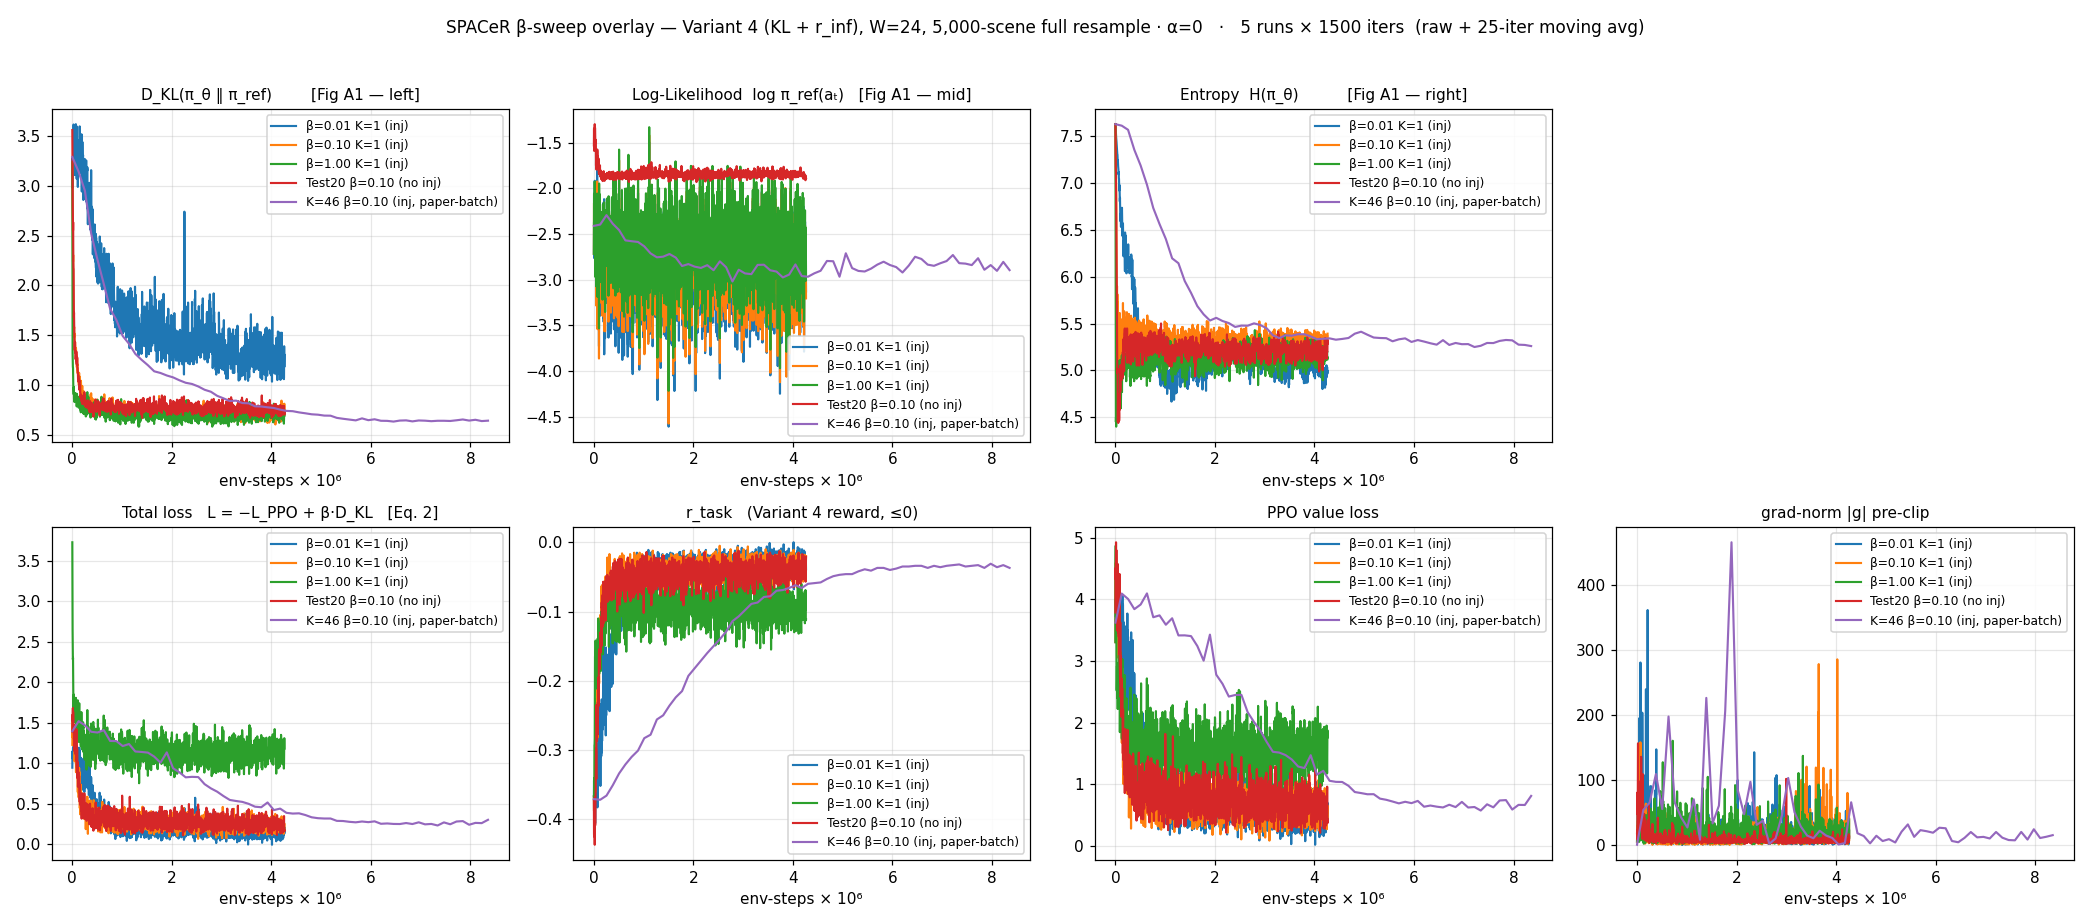
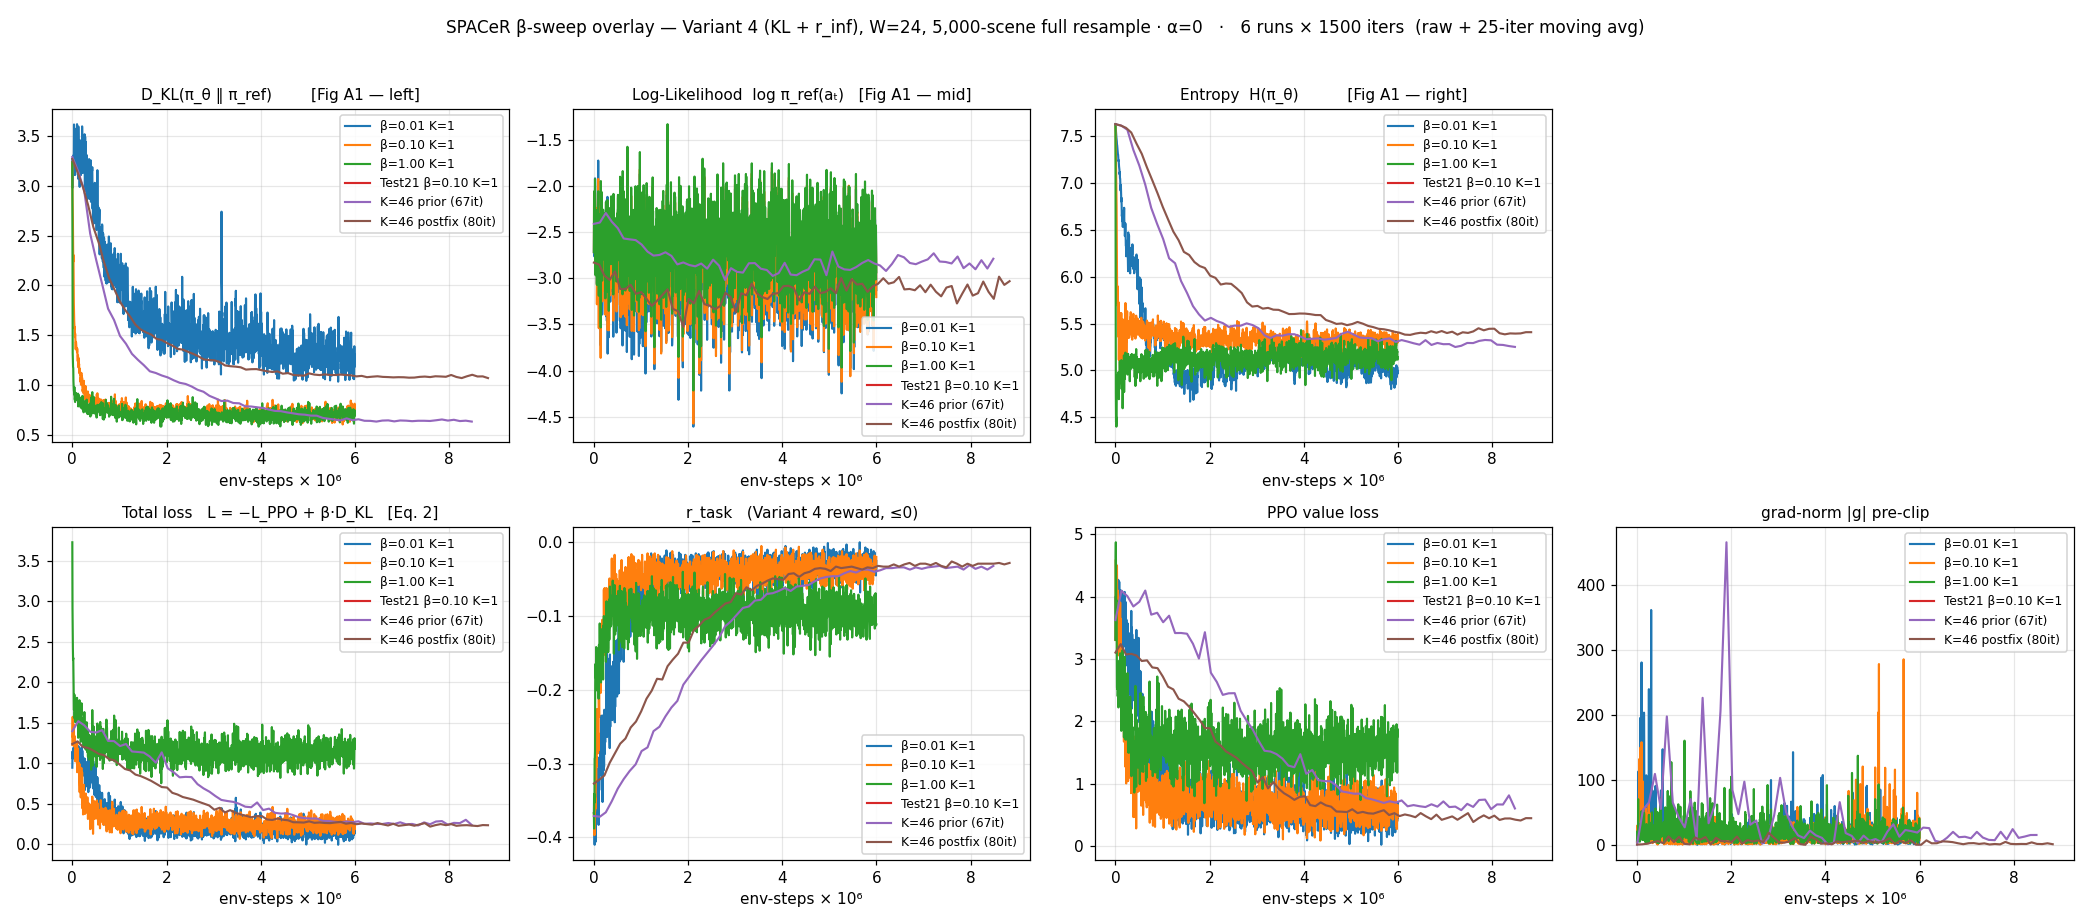
K=46 postfix run complete (80 iters): logs, curves, 6-run compare
Adds the completed K=46 β=0.10 postfix run (80/80 iters, 8h 43m wall):
finished cleanly, r_task −0.327 → −0.028, KL settled at 1.08, |g| stayed
1–7 throughout (vs 50–200 in prior K=46 run — gradient-clipper was no
longer truncating updates). 4 ckpts saved at it=25/50/75/80.

- spacer/logs/run_k46_b0.1_postfix_10k_*.log : full training log
- plots/k46_b0.1_postfix_10k_it0080_curves.png : per-iter curves
- plots/compare_5runs_envsteps.png : refreshed to include postfix line
  as a 6th overlay (vs β-sweep K=1 trio + prior K=46 partial)
- spacer/plot_compare.py : extend COLOURS palette from 5 → 10 entries
  (zip() would silently drop runs beyond the 5th)
- debug.md : audit + run notes

diff --git a/spacer/plot_compare.py b/spacer/plot_compare.py
@@ -68,7 +68,8 @@ panels = [("KL",     "D_KL(π_θ ‖ π_ref)        [Fig A1 — left]"),
           ("g",      "grad-norm |g| pre-clip")]
 
 # distinct, colour-blind-friendly palette for the runs
-COLOURS = ["tab:blue", "tab:orange", "tab:green", "tab:red", "tab:purple"]
+COLOURS = ["tab:blue", "tab:orange", "tab:green", "tab:red", "tab:purple",
+           "tab:brown", "tab:pink", "tab:olive", "tab:cyan", "k"]
 
 use_env = all(r[3] > 0 for r in runs)         # env-step x-axis if all given
 fig, axes = plt.subplots(2, 4, figsize=(19, 8.4))

diff --git a/debug.md b/debug.md
@@ -19,9 +19,15 @@ code. Captured here so the audit findings are searchable without diluting
 **Combined picture of what's still genuinely worth investigating** (most
 important first):
 
-1. **KL aggregation: mean vs sum across agents** (Audit #3 Interaction B)
-   — if the paper sums and we mean, our nominal β=0.10 is effectively
-   β=0.10/N ≈ β=6e-4 (off by ~100-160×); whole sweep was in wrong regime.
+1. ✅ **RESOLVED — KL aggregation matches reference HR-PPO.** Audit #3
+   Interaction B is closed. `KLDivLoss(reduction="batchmean")` in the
+   Cornelisse & Vinitsky reference (`reference_code/nocturne_lab/.../reg_ppo.py:59`)
+   = sum-over-vocab + mean-over-samples = exactly our convention. Our β
+   scale is on the right axis. **See Audit #3 follow-up note for details.**
+   (Side finding: the reference uses convex-combo loss `(1-β)·PPO + β·KL`
+   vs our additive `PPO + β·KL`; for β ≤ 0.10 the two are near-equivalent
+   so our past conclusions stand; for β=1.0 the mechanisms differ but the
+   "worst" verdict holds either way. Low-priority refactor.)
 2. **Rollout doesn't preserve 1s logged history** (Audit #2 Claim 1) —
    π_ref scores a partly π_θ-generated "history" context.
 3. **Non-controlled agents driven by token 0** (Audit #2 Claim 2) —
@@ -420,6 +426,56 @@ or PufferLib's HR-PPO KL term directly. **The single most important
 unresolved question** — could explain almost everything Test 22 didn't.
 Cheap to audit by reading `gpudrive/integrations/puffer/ppo.py`.
 
+#### Follow-up audit (resolved): reference HR-PPO from `nocturne_lab`
+
+`reference_code/nocturne_lab/algorithms/ppo/sb3/reg_ppo.py` (Cornelisse &
+Vinitsky 2024) is the HR-PPO implementation the SPACeR paper builds on.
+Two findings:
+
+**Finding 1 — KL aggregation: ✅ our convention matches.**
+Line 59:
+```python
+self.reg_loss = torch.nn.KLDivLoss(reduction="batchmean", log_target=True)
+```
+`KLDivLoss(reduction="batchmean")` = sum over the class/vocab dim,
+mean over the batch (sample) dim — **exactly** what our code does at
+[train_spacer.py:410](spacer/train_spacer.py#L410):
+`(lpth.exp() * (lpth - lprf)).sum(-1)[rv].mean()`. Audit #3 Interaction B's
+"are we off by ~N?" worry is **resolved: no, we are not**. Our β values
+are on the right scale.
+
+**Finding 2 — loss formulation differs (convex-combo vs additive):**
+Line 174:
+```python
+loss = (1 - reg_weight) * loss_ppo + reg_weight * loss_reg
+```
+**Reference uses a convex combination** with `reg_weight ∈ [0, 1]`:
+PPO@(1−β) + KL@β. We use an **additive** form: PPO@1.0 + β·KL.
+
+Translation of β values:
+
+| β | Paper PPO weight | Paper KL/PPO ratio | Ours PPO weight | Ours KL/PPO ratio |
+|---|---|---|---|---|
+| 0.01 | 0.99 | 0.0101 | 1.00 | 0.0100 |
+| 0.10 | 0.90 | 0.111 | 1.00 | 0.100 |
+| 0.50 | 0.50 | 1.00 | 1.00 | 0.500 |
+| 1.00 | **0.00 (pure KL)** | ∞ | 1.00 | 1.000 |
+
+For β ≤ 0.10 (Tests 20/21 b=0.01/0.10, Test 22): near-equivalent
+(<10% PPO-weight difference) → **our past conclusions stand unchanged.**
+
+For β = 1.00 (Test 21 b1.0, the worst run): the paper's β=1.00 = pure
+KL with no PPO — degenerate by construction. Ours = PPO@1.0 + KL@1.0 =
+also degenerate, from over-regularization. **Same empirical "worst" outcome,
+different mechanism.** Test 21's "β=1.0 ruled out" verdict still holds for
+both formulations — but the mechanisms are not identical.
+
+**Practical impact:** switching to convex-combo is a ~3-line refactor
+and is more paper-faithful, but for β ≤ 0.10 our experimental results
+would be near-identical either way. Worth doing if we ever plan
+high-β experiments; not high-leverage for retroactively reinterpreting
+Tests 20/21/22. Filed as low-priority follow-up.
+
 ### Verdict summary — Audit #3
 
 | Claim | Verdict | Impact |
@@ -440,18 +496,17 @@ What we now collectively know:
 
 | Category | Findings |
 |---|---|
-| **Real bugs that could affect Test 22's degenerate result** | (A2-1) no logged history in rollout; (A2-2) non-controlled agents on token 0; (A3-B) possible β-normalization mismatch |
-| **Lower-impact real code issues** | (A2-3) `alpha` not wired into GAE; (A2-4) `align_agents` dead alloc; (A2-5) dropout dual-forward |
+| **Real bugs that could affect Test 22's degenerate result** | (A2-1) no logged history in rollout; (A2-2) non-controlled agents on token 0 |
+| **Lower-impact real code issues** | (A2-3) `alpha` not wired into GAE; (A2-4) `align_agents` dead alloc; (A2-5) dropout dual-forward; (A3-B follow-up) additive vs convex-combo loss formulation (near-equivalent for β ≤ 0.10) |
 | **Unmeasured, cheap to instrument** | (A3-2) valid-coverage fraction; (A3-A) token distribution |
-| **Conclusively non-issues** | (A1-3) `gt_idx` re-tokenization "critical bug" — round-trip exact, α=0 anyway; (A3-4) obs_dim mismatch — auto-detected |
+| **Conclusively non-issues** | (A1-3) `gt_idx` re-tokenization "critical bug" — round-trip exact, α=0 anyway; (A3-4) obs_dim mismatch — auto-detected; **(A3-B) KL mean-vs-sum — matches reference HR-PPO via `reference_code/nocturne_lab/.../reg_ppo.py`** |
 | **Empirically refuted by our data** | (A1-4) higher β recommendation — Test 21 disproved β=1.00 |
 
 ### Recommended next moves (ordered by expected leverage / cost ratio)
 
-1. **Audit PufferLib's HR-PPO KL term** for mean vs sum convention. Zero
-   compute cost; potentially reframes the entire β picture. If we've
-   been silently in the wrong β regime, every β-sweep result needs
-   re-interpretation.
+1. ✅ **DONE — PufferLib + nocturne_lab HR-PPO audit.** KL aggregation
+   matches reference. Loss formulation differs (additive vs convex-combo)
+   but near-equivalent at our β values.
 2. **Fix Audit #2 Claim 2** (non-controlled agents → log-replay) — copy
    the pattern already correct in `eval_quick.py`'s `ref_rollout`. This
    is a focused ~15-line patch and the bug it fixes is plausibly large.
@@ -460,4 +515,5 @@ What we now collectively know:
 4. **Instrument** valid-coverage fraction (Audit #3 #2) and token-
    distribution (Audit #3 Interaction A) — one print each at iter 0.
 5. Defer: Audit #2 #3 (`alpha`), #4 (dead alloc), #5 (dropout). Cosmetic
-   or out-of-scope-for-Variant-4.
+   or out-of-scope-for-Variant-4. Also defer: convex-combo loss refactor
+   (paper-faithful but low-impact at our β values).